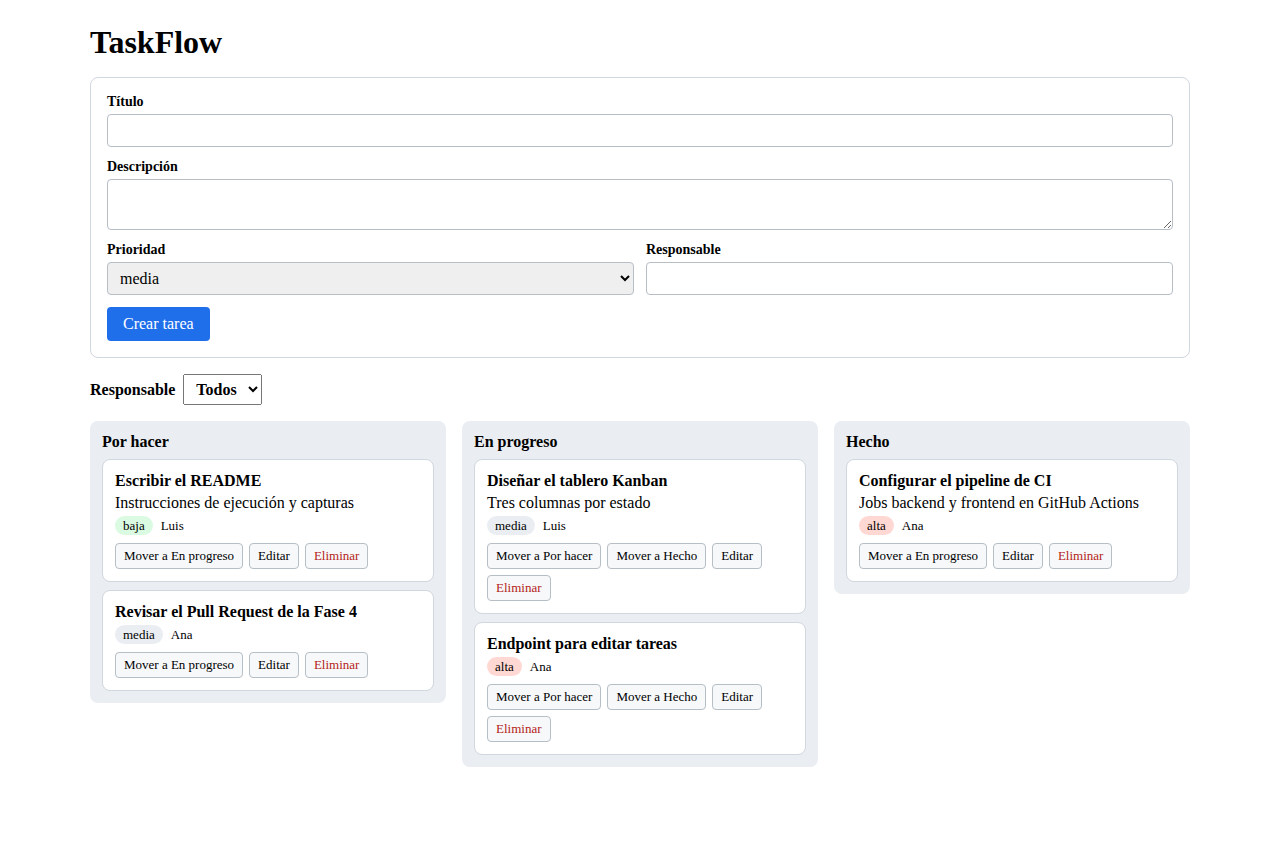
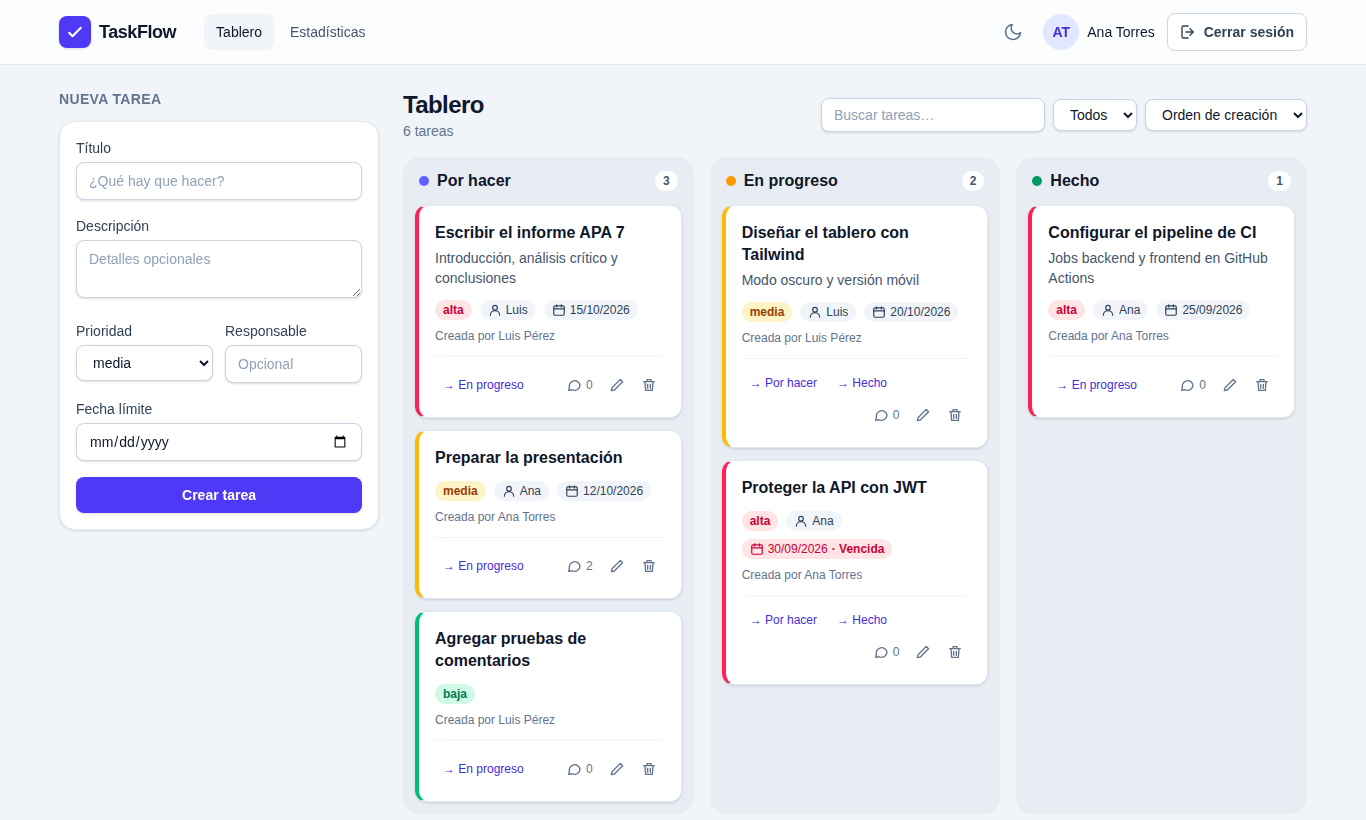
docs: actualiza el README, las capturas y la verificación para la v2
Tarea T041.

- README: funcionalidades de la v1 y la v2, resumen de seguridad,
  capturas nuevas (tablero claro y oscuro, comentarios, estadísticas,
  inicio de sesión y móvil), primer uso con registro, variable
  JWT_SECRET, contrato completo de la API con autenticación, número de
  pruebas, problemas comunes y estructura actualizada.
- docs/verificacion.md: verificación de la v2 (historias H6-H14, casos
  borde, CE-005 a CE-008, hallazgos corregidos y limitaciones).
- Se eliminan las capturas de la v1.
- Marca T041 como completada.

Claude-Session: https://claude.ai/code/session_01X1AYGKPBY92PkW8Gsq2zCy

diff --git a/README.md b/README.md
@@ -8,6 +8,17 @@ El sistema de ejemplo, **TaskFlow**, es un gestor de tareas con tablero Kanban h
 **Node.js/Express** y base de datos **SQLite**, desarrollado con **Spec Driven Development** usando la estructura
 de **GitHub Spec Kit**.
 
+## Funcionalidades
+
+| Versión | Qué incluye | Especificación |
+|---|---|---|
+| v1 | Tablero Kanban con tres columnas, crear, editar, eliminar, mover entre estados y filtrar por responsable | [`001-gestor-tareas`](specs/001-gestor-tareas/spec.md) |
+| v2 | Cuentas de usuario con inicio de sesión (JWT), autor de cada tarea, fecha límite y tareas vencidas, búsqueda, orden, arrastrar y soltar, comentarios, estadísticas, diseño con Tailwind CSS, modo oscuro y versión móvil | [`002-taskflow-v2`](specs/002-taskflow-v2/spec.md) |
+
+**Seguridad**: contraseñas guardadas solo como hash bcrypt, tokens JWT que expiran en 8 horas, toda la API de
+tareas y estadísticas exige sesión, el inicio de sesión no revela si el correo existe y se bloquea 15 minutos tras
+5 intentos fallidos. Detalle en el [plan de la v2](specs/002-taskflow-v2/plan.md#seguridad).
+
 ## Cómo se resuelve cada problema de la empresa
 
 | Problema | Solución aplicada en este repositorio |
@@ -20,17 +31,15 @@ de **GitHub Spec Kit**.
 
 ## Capturas
 
-| Tablero Kanban | Validación del formulario |
+![Tablero con tareas en las tres columnas, fechas límite y una tarea vencida](docs/capturas/tablero.png)
+
+| Modo oscuro | Comentarios de una tarea |
 |---|---|
-| ![Tablero con tareas en las tres columnas](docs/capturas/tablero.png) | ![Mensaje "El título es obligatorio"](docs/capturas/validacion.png) |
+| ![Tablero en modo oscuro](docs/capturas/tablero-oscuro.png) | ![Panel de comentarios desplegado en una tarjeta](docs/capturas/comentarios.png) |
 
-| Edición de una tarea | Filtro por responsable |
-|---|---|
-| ![Formulario de edición dentro de la columna](docs/capturas/edicion.png) | ![Tablero filtrado por Ana](docs/capturas/filtro.png) |
-
-Si la API no está disponible, la interfaz lo avisa:
-
-![Aviso "No se pudo conectar con el servidor"](docs/capturas/sin-conexion.png)
+| Estadísticas | Inicio de sesión | Móvil |
+|---|---|---|
+| ![Totales, tareas por estado y avance por responsable](docs/capturas/estadisticas.png) | ![Pantalla de inicio de sesión](docs/capturas/login.png) | ![Tablero en una pantalla de 375 px](docs/capturas/movil.png) |
 
 ## Requisitos
 
@@ -62,41 +71,68 @@ cd frontend
 npx ng serve
 ```
 
-La primera vez la API crea la base de datos en `backend/data/taskflow.db` (Git la ignora). Para empezar con el
-tablero vacío, detén la API y borra ese archivo.
+Abre http://localhost:4200, entra en **Regístrate** y crea tu cuenta: el tablero solo se ve con sesión iniciada.
+
+La primera vez la API crea la base de datos en `backend/data/taskflow.db` (Git la ignora). Si ya tenías una base
+de la v1, se actualiza sola al arrancar y conserva las tareas. Para empezar de cero, detén la API y borra ese
+archivo.
+
+### Clave de los tokens (`JWT_SECRET`)
+
+Sin `JWT_SECRET`, la API usa una clave aleatoria en cada arranque: funciona, pero las sesiones se cierran al
+reiniciar la API y la consola lo avisa. Para conservarlas, define la variable antes de `npm start`:
+
+```bash
+# PowerShell
+$env:JWT_SECRET = "una-clave-larga-y-secreta"
+# Git Bash, macOS o Linux
+export JWT_SECRET="una-clave-larga-y-secreta"
+```
+
+Con `NODE_ENV=production` la API no arranca sin `JWT_SECRET`. Nunca subas la clave al repositorio.
 
 ## Pruebas
 
 ```bash
 cd backend
-npm test                    # Jest + Supertest con SQLite en memoria
+npm test                    # Jest + Supertest con SQLite en memoria (154 pruebas)
 
 cd frontend
 npx ng build                # compilación de producción
-npx ng test --no-watch      # Vitest + jsdom, sin navegador
+npx ng test --no-watch      # Vitest + jsdom, sin navegador (135 pruebas)
 ```
 
 Son los mismos pasos que ejecuta el pipeline. Si una prueba falla en local, también fallará en el Pull Request.
 
 ## API REST
 
-Base: `http://localhost:3000/api`
+Base: `http://localhost:3000/api`. Todas las rutas salvo `/auth/register` y `/auth/login` exigen la cabecera
+`Authorization: Bearer <token>`.
 
 | Método | Ruta | Descripción | Respuestas |
 |---|---|---|---|
-| GET | `/tasks?assignee=Ana` | Lista tareas; el filtro es opcional | 200 |
-| GET | `/tasks/:id` | Obtiene una tarea | 200, 404 |
-| POST | `/tasks` | Crea una tarea | 201, 400 |
-| PUT | `/tasks/:id` | Edita título, descripción, prioridad y responsable | 200, 400, 404 |
-| PATCH | `/tasks/:id/status` | Cambia solo el estado | 200, 400, 404 |
-| DELETE | `/tasks/:id` | Elimina una tarea | 204, 404 |
+| POST | `/auth/register` | Crea una cuenta y devuelve `{ token, user }` | 201, 400, 409 |
+| POST | `/auth/login` | Inicia sesión y devuelve `{ token, user }` | 200, 400, 401, 429 |
+| GET | `/auth/me` | Usuario de la sesión | 200, 401 |
+| GET | `/tasks?assignee=Ana&q=texto` | Lista tareas; filtro y búsqueda opcionales y combinables | 200, 401 |
+| GET | `/tasks/:id` | Obtiene una tarea | 200, 401, 404 |
+| POST | `/tasks` | Crea una tarea (`due_date` opcional, `AAAA-MM-DD`) | 201, 400, 401 |
+| PUT | `/tasks/:id` | Edita título, descripción, prioridad, responsable y fecha límite | 200, 400, 401, 404 |
+| PATCH | `/tasks/:id/status` | Cambia solo el estado | 200, 400, 401, 404 |
+| DELETE | `/tasks/:id` | Elimina una tarea y sus comentarios | 204, 401, 404 |
+| GET | `/tasks/:id/comments` | Comentarios de una tarea | 200, 401, 404 |
+| POST | `/tasks/:id/comments` | Agrega un comentario `{ "body": "..." }` | 201, 400, 401, 404 |
+| GET | `/stats` | Totales por estado, vencidas y avance por responsable | 200, 401 |
 
 Los errores responden `{ "error": "mensaje" }`, por ejemplo `400 { "error": "El título es obligatorio" }`.
 
 ```bash
-curl -X POST http://localhost:3000/api/tasks -H "Content-Type: application/json" -d "{\"title\":\"Probar API\",\"assignee\":\"Ana\"}"
-curl -X PATCH http://localhost:3000/api/tasks/1/status -H "Content-Type: application/json" -d "{\"status\":\"en_progreso\"}"
-curl "http://localhost:3000/api/tasks?assignee=Ana"
+# 1. Crear una cuenta (o iniciar sesión con /auth/login) y copiar el "token" de la respuesta
+curl -X POST http://localhost:3000/api/auth/register -H "Content-Type: application/json" -d "{\"name\":\"Ana\",\"email\":\"ana@taskflow.ec\",\"password\":\"secreta123\"}"
+
+# 2. Usar el token en las demás peticiones
+curl http://localhost:3000/api/tasks -H "Authorization: Bearer TU_TOKEN"
+curl -X POST http://localhost:3000/api/tasks -H "Authorization: Bearer TU_TOKEN" -H "Content-Type: application/json" -d "{\"title\":\"Probar API\",\"due_date\":\"2026-10-31\"}"
 ```
 
 En PowerShell usa `curl.exe` en lugar de `curl`.
@@ -124,35 +160,44 @@ El deploy es simulado (el despliegue real está fuera de alcance): el build se d
 | `npm install` falla con `edgesOut` en el frontend | Usa `npm ci`, que respeta el `package-lock.json`. |
 | Puerto 3000 o 4200 ocupado | Cierra el proceso anterior; el frontend espera la API en el puerto 3000. |
 | La interfaz dice "No se pudo conectar con el servidor" | La API no está corriendo: inicia `npm start` en `backend/`. |
+| Te saca a la pantalla de inicio de sesión al reiniciar la API | Normal sin `JWT_SECRET`: defínela (ver arriba) o vuelve a iniciar sesión. |
+| "Demasiados intentos, espera unos minutos" | 5 contraseñas incorrectas seguidas bloquean ese correo 15 minutos (o reinicia la API). |
 
 ## Estructura
 
 ```text
 .specify/memory/constitution.md   Principios del proyecto (Spec Kit)
-specs/001-gestor-tareas/
-├── spec.md                       Qué hace el sistema y por qué
-├── plan.md                       Cómo se construye (tecnología, datos, API)
-└── tasks.md                      Tareas ordenadas para implementar
+specs/
+├── 001-gestor-tareas/            v1: spec.md, plan.md, tasks.md
+└── 002-taskflow-v2/              v2: cuentas, diseño y productividad
 docs/
 ├── flujo-de-trabajo.md           Ramas, commits, PR, code review y gestión
 ├── verificacion.md               Verificación de requisitos y criterios de éxito
 └── capturas/                     Capturas de pantalla del README
 backend/
-├── src/                          app.js, server.js, db.js, tasks.repository.js, tasks.routes.js
+├── src/
+│   ├── app.js, server.js         Aplicación Express y punto de entrada
+│   ├── db.js                     Conexión SQLite y migraciones
+│   ├── auth.js                   Registro, inicio de sesión, JWT y límite de intentos
+│   ├── tasks.routes.js           Rutas de tareas y comentarios
+│   ├── stats.routes.js           Estadísticas
+│   └── *.repository.js           Consultas SQL (tareas, usuarios, comentarios)
 └── tests/                        Pruebas de la API (Jest + Supertest)
 frontend/src/app/
-├── models/task.ts                Interfaz Task y tipos
-├── services/task.service.ts      Cliente HTTP de la API
-└── components/                   board, task-card, task-form
+├── models/                       Task, User y utilidades (vencidas, orden)
+├── services/                     TaskService, AuthService, ThemeService
+├── interceptors/, guards/        Token en cada petición y rutas protegidas
+├── pages/                        login, register, stats
+└── components/                   board, task-card, task-form, task-comments
 .github/workflows/                Pipeline CI/CD
 ```
 
 ## Flujo SDD aplicado
 
 1. **Constitución** → [`constitution.md`](.specify/memory/constitution.md)
-2. **Especificación** → [`spec.md`](specs/001-gestor-tareas/spec.md)
-3. **Plan técnico** → [`plan.md`](specs/001-gestor-tareas/plan.md)
-4. **Tareas** → [`tasks.md`](specs/001-gestor-tareas/tasks.md)
+2. **Especificación** → [v1](specs/001-gestor-tareas/spec.md) y [v2](specs/002-taskflow-v2/spec.md)
+3. **Plan técnico** → [v1](specs/001-gestor-tareas/plan.md) y [v2](specs/002-taskflow-v2/plan.md)
+4. **Tareas** → [v1](specs/001-gestor-tareas/tasks.md) y [v2](specs/002-taskflow-v2/tasks.md)
 5. **Implementación** → ramas `feature/*` con Pull Requests
 
 Detalle del flujo de trabajo: [`docs/flujo-de-trabajo.md`](docs/flujo-de-trabajo.md).

diff --git a/docs/verificacion.md b/docs/verificacion.md
@@ -81,3 +81,85 @@ Después, actualizar `develop` con un PR desde `main` y abrir los siguientes PR 
 
 El contrato de la API de `plan.md` incluye `GET /tasks/:id` (200, 404), pero ninguna tarea de `tasks.md` lo
 cubría y la ruta no existía. Se agregó con sus pruebas en esta misma rama.
+
+---
+
+# Verificación de TaskFlow v2 (T041)
+
+Comprobación de [`002-taskflow-v2/spec.md`](../specs/002-taskflow-v2/spec.md) contra la rama
+`docs/011-documentacion-v2`, que incluye las Fases 6 a 9.
+
+**Fecha**: 2026-10-03
+
+## Cómo se verificó
+
+| Tipo | Herramienta | Resultado |
+|---|---|---|
+| Pruebas de la API | Jest + Supertest | 154 pruebas en verde (82 nuevas) |
+| Pruebas del frontend | Vitest + jsdom | 135 pruebas en verde (86 nuevas) |
+| Compilación | `ng build` | Sin errores ni avisos |
+| Punta a punta | API real + `ng serve` + Chromium sin interfaz | Todos los escenarios en verde (ver abajo) |
+| Paleta de estadísticas | Validador de la guía de dataviz, en claro y oscuro | Pasa las cinco comprobaciones; separación para daltonismo ΔE ≥ 10 |
+| Pipeline | GitHub Actions | Pendiente: se ejecuta al abrir el Pull Request |
+
+Recorridos de punta a punta:
+
+- **Sesión**: sin sesión `/` lleva a `/login`; registro; la sesión sobrevive a recargar; con sesión `/login` lleva
+  al tablero; cerrar sesión; contraseña incorrecta; un token alterado vuelve a `/login` con "Tu sesión expiró".
+- **Productividad**: "Vencida" en una tarea en progreso con fecha pasada y no en una hecha; "Creada por"; crear con
+  fecha límite; ordenar por fecha; buscar; comentar (el contador sube); arrastrar a otra columna con el ratón
+  (envía el `PATCH` y persiste); estadísticas.
+- **Diseño**: modo claro y oscuro (el tema persiste al recargar); 375 px de ancho sin desplazamiento horizontal en
+  inicio de sesión, tablero y estadísticas.
+
+## Historias de usuario
+
+| Historia | Evidencia | Estado |
+|---|---|---|
+| H6 Crear una cuenta (P1) | `auth.test.js` (registro, 409, validaciones), `register.spec.ts`, punta a punta | Cumple |
+| H7 Iniciar y cerrar sesión (P1) | `auth.test.js` (login, 401, 429, tokens), `auth.service.spec.ts`, `auth.interceptor.spec.ts`, `auth.guard.spec.ts`, `login.spec.ts`, punta a punta | Cumple |
+| H8 Quién creó cada tarea (P2) | `tasks.test.js` (autoría), `task-card.spec.ts`, punta a punta | Cumple |
+| H9 Fecha límite y vencidas (P2) | `productivity.test.js`, `task.spec.ts`, `task-card.spec.ts`, `board.spec.ts` (orden), punta a punta | Cumple |
+| H10 Arrastrar y soltar (P2) | `board.spec.ts` (soltar en otra columna y en la misma), punta a punta con el ratón | Cumple |
+| H11 Buscar tareas (P2) | `productivity.test.js` (búsqueda, combinación, `%` y `_`), `board.spec.ts`, punta a punta | Cumple |
+| H12 Comentar una tarea (P3) | `productivity.test.js`, `task-comments.spec.ts`, `board.spec.ts`, punta a punta | Cumple |
+| H13 Panel de estadísticas (P3) | `productivity.test.js` (`/stats`), `stats.spec.ts`, punta a punta | Cumple |
+| H14 Diseño moderno y modo oscuro (P2) | `theme.service.spec.ts`, capturas en claro, oscuro y móvil | Cumple |
+
+## Casos borde
+
+| Caso | Estado |
+|---|---|
+| Token manipulado, de otra clave, sin firma (`alg: none`), vencido o de un usuario eliminado → 401 | Cumple |
+| Más de 5 intentos fallidos en 15 minutos → 429 "Demasiados intentos, espera unos minutos" | Cumple |
+| Fecha límite inválida (por ejemplo `2026-02-30`) → 400 "La fecha límite no es válida" | Cumple |
+| Al eliminar una tarea se eliminan sus comentarios | Cumple |
+| Una base de la v1 se actualiza al arrancar y conserva sus tareas | Cumple (`db.test.js` con un archivo real de la v1) |
+
+## Criterios de éxito
+
+| Criterio | Resultado | Estado |
+|---|---|---|
+| CE-005 Ninguna ruta de tareas, comentarios o estadísticas responde sin token | Pruebas de las seis rutas de tareas, de comentarios y de `/stats` sin token | Cumple |
+| CE-006 Contraseñas solo como hash bcrypt | Prueba que lee la tabla `users` y verifica el hash | Cumple |
+| CE-007 Historias P1 y P2 con pruebas en GitHub Actions | Pruebas escritas; el pipeline las ejecuta sin cambios | Pendiente de ver en verde en el PR |
+| CE-008 Sin desplazamiento horizontal a 375 px | Medido en Chromium: 375 px exactos en las tres pantallas | Cumple |
+
+## Hallazgos corregidos durante la verificación
+
+- La ruta `/estadisticas` no estaba registrada y ninguna prueba lo detectaba: se corrigió y se agregó
+  `app.routes.spec.ts`.
+- En modo oscuro se perdía el borde de color por prioridad de las tarjetas.
+- En el móvil, la barra superior desbordaba 375 px.
+- El formulario de comentarios no enviaba (`ngSubmit` sin `[formGroup]`) y su campo quedaba muy angosto en
+  columnas estrechas.
+- La paleta inicial de estados (gris, ámbar-400 y esmeralda-500) no pasaba el validador; se reemplazó.
+
+## Limitaciones conocidas
+
+- El límite de intentos de inicio de sesión vive en memoria: se reinicia con la API y no se comparte entre
+  varias instancias.
+- La búsqueda y el filtro no distinguen mayúsculas solo en letras sin tilde (por ejemplo, `Á` y `á` se consideran
+  distintas).
+- El token se guarda en `localStorage`; el plan de la v2 explica por qué se acepta y cuál sería la alternativa en
+  producción.

diff --git a/specs/002-taskflow-v2/tasks.md b/specs/002-taskflow-v2/tasks.md
@@ -33,7 +33,7 @@ Cada fase se entrega en su propia rama y Pull Request. Dentro de cada historia: 
 
 ## Fase 9: Cierre (rama `docs/011-documentacion-v2`)
 
-- [ ] T041 Actualizar README, capturas y `docs/verificacion.md` con la versión 2
+- [x] T041 Actualizar README, capturas y `docs/verificacion.md` con la versión 2
 
 ## Dependencias
 
